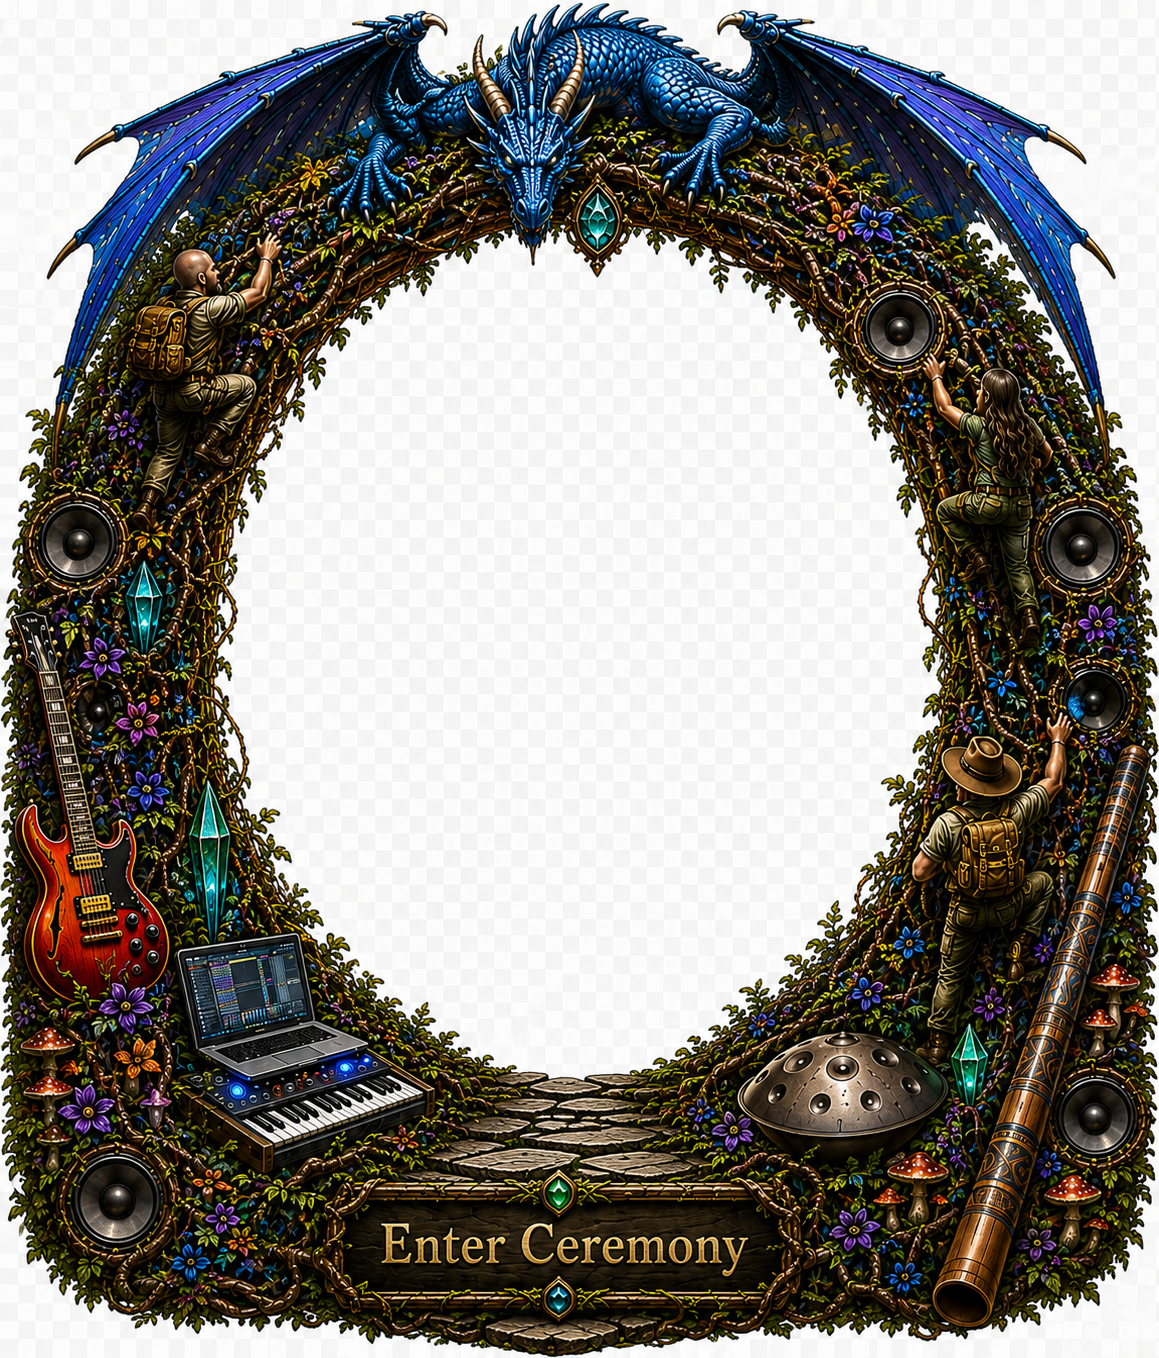
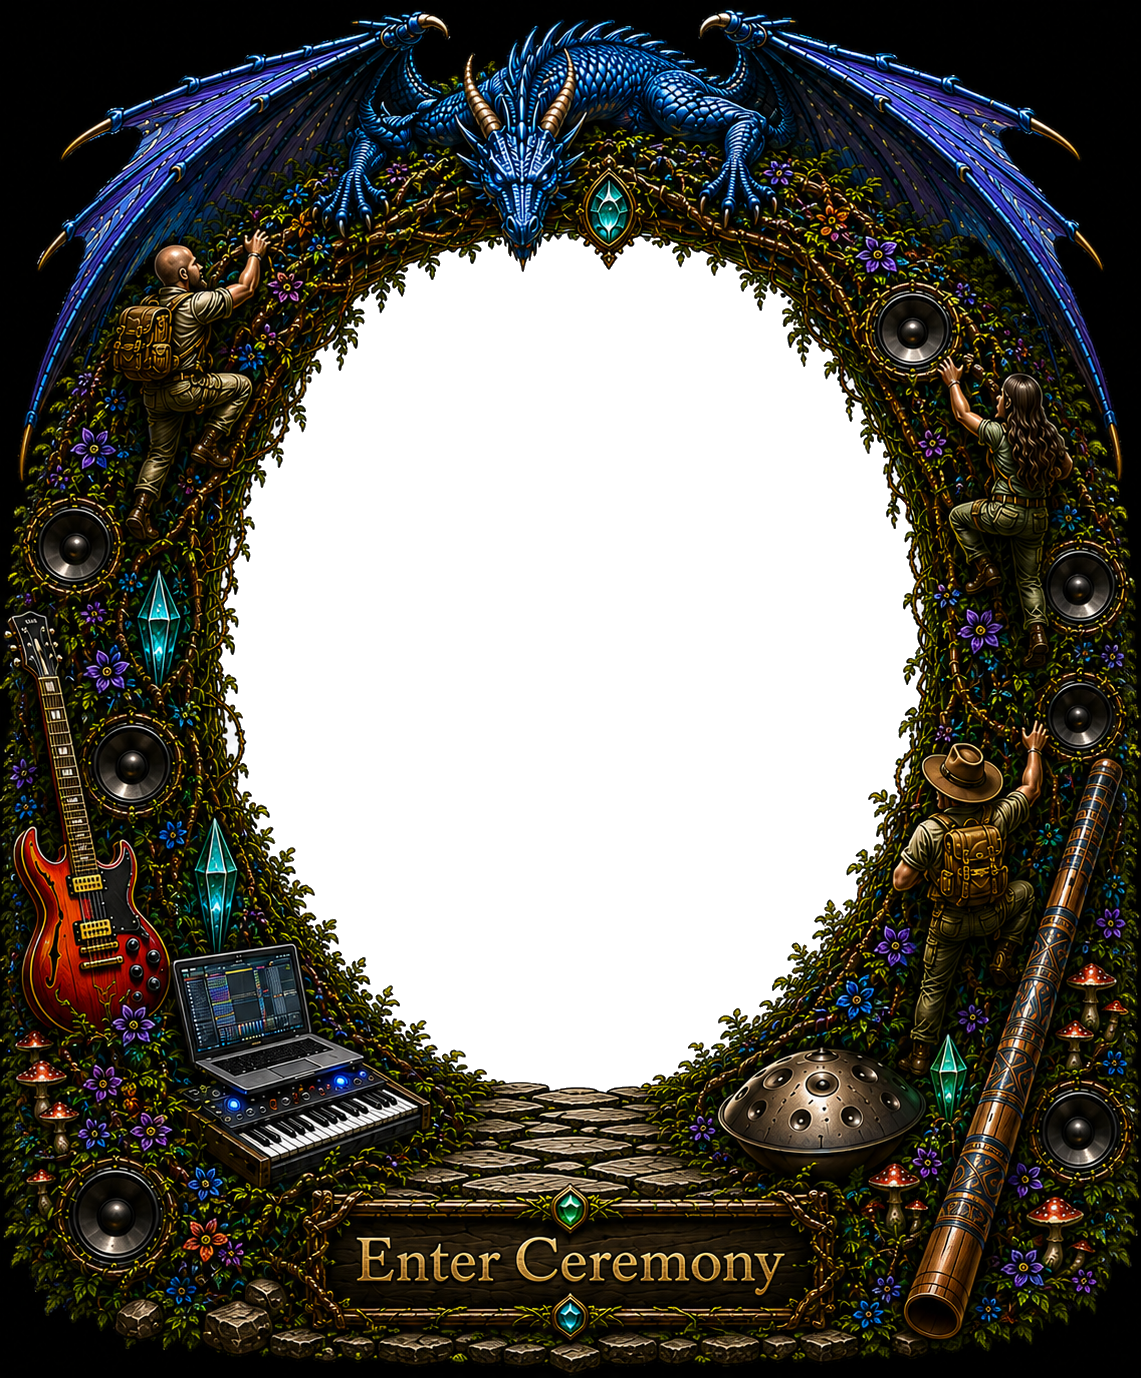
30

diff --git a/css/style.css b/css/style.css
@@ -1320,73 +1320,70 @@ brightness(1);
    EARTHJAM PORTAL
 =========================== */
 
+/* ===========================
+   EARTHJAM PORTAL
+=========================== */
+
 .earth-portal{
-
-background:none;
-border:none;
-padding:0;
-
+  background:none;
+  border:0;
+  padding:0;
+  overflow:visible;
 }
 
 .earth-frame{
-
-position:relative;
-width:250px;
-aspect-ratio:1/1.35;
-margin:auto;
-
+  position:relative;
+  width:250px;
+  aspect-ratio:1 / 1.2;
+  margin:auto;
 }
 
 .earth-cover{
+  position:absolute;
+  z-index:1;
 
-position:absolute;
+  left:18%;
+  top:18%;
 
-left:15%;
-top:13%;
+  width:64%;
+  height:62%;
 
-width:70%;
-height:67%;
-
-object-fit:cover;
-
-border-radius:12px;
-
-z-index:1;
-
+  object-fit:cover;
+  border-radius:42% 42% 8% 8%;
 }
 
 .earth-frame-art{
+  position:absolute;
+  z-index:2;
+  inset:0;
 
-position:absolute;
-inset:0;
+  width:100%;
+  height:100%;
+  object-fit:contain;
 
-width:100%;
-height:100%;
+  pointer-events:none;
 
-object-fit:contain;
+  filter:drop-shadow(0 0 14px rgba(50,220,145,.35));
 
-pointer-events:none;
-
-z-index:2;
-
-filter:
-
-drop-shadow(0 0 14px rgba(60,255,150,.35));
-
-transition:
-
-transform .35s ease,
-filter .35s ease;
-
+  transition:
+    transform .35s ease,
+    filter .35s ease;
 }
 
 .earth-portal:hover .earth-frame-art{
+  transform:scale(1.04);
 
-transform:scale(1.04);
+  filter:
+    drop-shadow(0 0 20px rgba(50,220,145,.6))
+    brightness(1.08);
+}
 
-filter:
+/* Mobile EarthJam size */
 
-drop-shadow(0 0 20px rgba(60,255,150,.6))
-brightness(1.08);
+@media (max-width:700px){
+
+  .earth-frame{
+    width:155px;
+  }
 
 }
